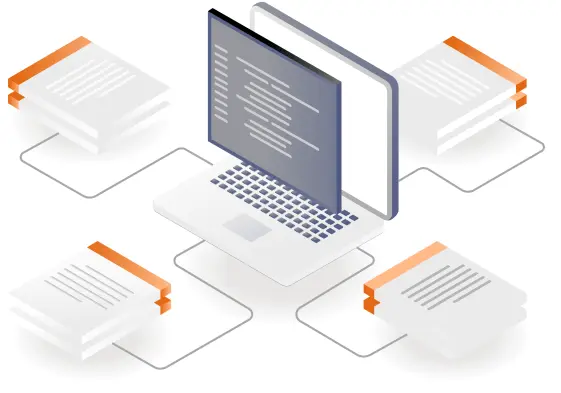
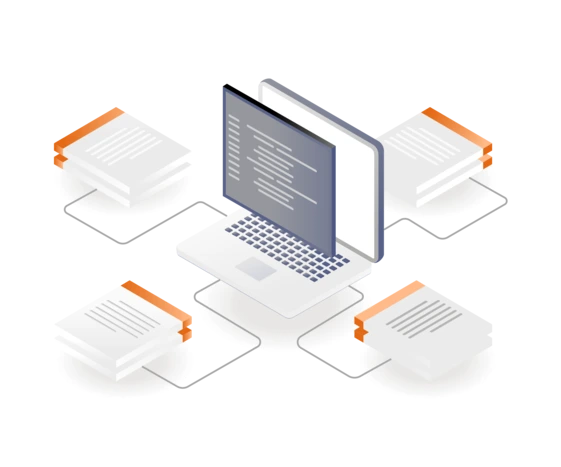
[chores] Improved source code page image

diff --git a/content/pages/code.html b/content/pages/code.html
@@ -17,6 +17,7 @@
                 <img
                   src="{static}/images/source-code.webp"
                   alt="source code"
+                  class="invert-img"
                   width="450"
                   height="315"
                 />
@@ -62,7 +63,7 @@
               src="{static}/images/source-code.webp"
               width="450"
               height="315"
-              class="mt-4"
+              class="mt-4 invert-img"
               alt="source code"
             />
           </div>

diff --git a/css/theme.scss b/css/theme.scss
@@ -216,6 +216,9 @@ html[data-theme="dark"]:root {
       transform: scale(0) rotate(90deg);
     }
   }
+  .invert-img {
+    filter: invert(1) brightness(200%) grayscale(50%);
+  }
 }
 /*! purgecss end ignore */
 
